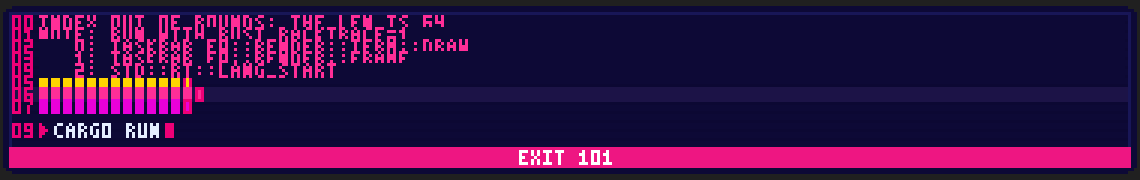
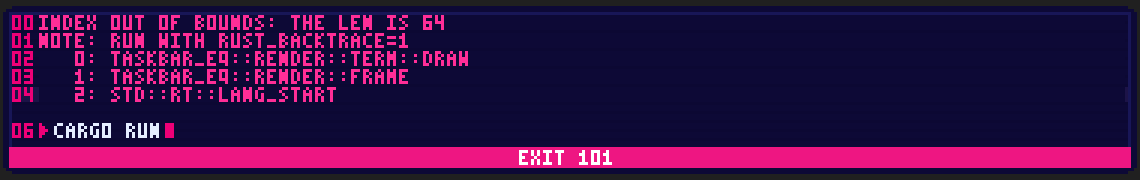
term: 6 px row pitch so text rows never overlap; matrix status bar; tilde glyph

Changed region(s): [[0.0, 0.1389, 0.4298, 0.6389], [0.0, 0.3333, 0.0307, 0.3889]]

diff --git a/docs/review/index.html b/docs/review/index.html
@@ -172,15 +172,15 @@ caption's source.</p>
 </section>
 <section>
   <h2><span class="n">20</span>Terminal: 2077</h2>
-  <p class="what">The user's own VSCode <b>"2077" theme</b> (endormi.2077-theme) rendered as a live shell whose output lines ARE the meter &mdash; it should sit on the taskbar like a second VSCode pane. Every colourway reads two ways at once: as a <b>terminal</b> (a prompt <code>&gt;</code>, a command that TYPES a character per onset, a block cursor that blinks at 1&nbsp;Hz, hot-pink line numbers down the left, a status bar with <code>~/music</code> / an rms <code>%</code> / <code>UTF-8&nbsp;&nbsp;LF</code>) and as a <b>meter</b> (each row is a band group, a bar of <code>▮</code> block glyphs growing with that band's level, bass at the BOTTOM next to the prompt like a log's newest line, a <code>▯</code> outline peak-hold marker at the tip; the loudest row gets a line-highlight, a clipping row the selection colour). When <code>L&nbsp;&ge;&nbsp;8</code> a <code># bpm ~ NNN</code> comment sits above the prompt, its tempo derived from the onset interval. The five colourways are five DIFFERENT sessions, each with its own command list: <b>2077</b> a mixed dev shell (the theme verbatim, seven-colour ANSI rows), <b>Cyan</b> network ops (monochrome cyan, pink only on the prompt), <b>Hot</b> git (pink/magenta lead), <b>Matrix</b> sysadmin (green on the editor navy, green prompt), <b>Editor</b> build &amp; test (the code-editor token palette). The flourish is a <code>panic!</code>: every meter row becomes a red Rust stack trace that scrolls up over ~700&nbsp;ms revealing the meter from the bottom, the cursor freezes solid and the status bar turns red with <code>EXIT 101</code>, then the prompt runs <code>clear</code>. No trademark marks &mdash; "2077" is only the colourway names. 0.035&nbsp;ms/frame steady, 0.037&nbsp;ms during the trace.</p>
-  <figure><img src="term-2077-loud.png" alt="Term 2077, loud"><figcaption>2077, loud &mdash; the theme verbatim: hot-pink line numbers 00&ndash;09, the seven-colour ANSI bars (magenta bass up through blue treble) with pink <code>▯</code> peak markers, a <code># bpm ~</code> comment, the prompt typing <code>cargo run</code> with a pink block cursor, and the <code>~/music &middot; ▮51% &middot; UTF-8 LF</code> status bar</figcaption></figure>
+  <p class="what">The user's own VSCode <b>"2077" theme</b> (endormi.2077-theme) rendered as a live shell whose output lines ARE the meter &mdash; it should sit on the taskbar like a second VSCode pane. Every colourway reads two ways at once: as a <b>terminal</b> (a prompt <code>&gt;</code>, a command that TYPES a character per onset, a block cursor that blinks at 1&nbsp;Hz, hot-pink line numbers down the left, a status bar with <code>~/music</code> / an rms <code>%</code> / <code>UTF-8&nbsp;&nbsp;LF</code>) and as a <b>meter</b> (each row is a band group, a bar of <code>▮</code> block glyphs growing with that band's level, bass at the BOTTOM next to the prompt like a log's newest line, a <code>▯</code> outline peak-hold marker at the tip; the loudest row gets a line-highlight, a clipping row the selection colour). The rows are at a 6&nbsp;px pitch (a 5&nbsp;px glyph plus a 1&nbsp;px gap, never overlapping); when there are at least six of them a <code># bpm ~ NNN</code> comment sits above the prompt, its tempo derived from the onset interval. The five colourways are five DIFFERENT sessions, each with its own command list: <b>2077</b> a mixed dev shell (the theme verbatim, seven-colour ANSI rows), <b>Cyan</b> network ops (monochrome cyan, pink only on the prompt), <b>Hot</b> git (pink/magenta lead), <b>Matrix</b> sysadmin (green on the editor navy, green prompt), <b>Editor</b> build &amp; test (the code-editor token palette). The flourish is a <code>panic!</code>: every meter row becomes a red Rust stack trace that scrolls up over ~700&nbsp;ms revealing the meter from the bottom, the cursor freezes solid and the status bar turns red with <code>EXIT 101</code>, then the prompt runs <code>clear</code>. No trademark marks &mdash; "2077" is only the colourway names. 0.027&nbsp;ms/frame steady, 0.028&nbsp;ms during the trace.</p>
+  <figure><img src="term-2077-loud.png" alt="Term 2077, loud"><figcaption>2077, loud &mdash; the theme verbatim: hot-pink line numbers down the left, the seven-colour ANSI bars (magenta bass up through blue treble) with pink <code>▯</code> peak markers, a <code># bpm ~</code> comment, the prompt typing <code>cargo run</code> with a pink block cursor, and the <code>~/music &middot; ▮51% &middot; UTF-8 LF</code> status bar</figcaption></figure>
   <figure><img src="term-2077-cyan-loud.png" alt="Term Cyan, loud"><figcaption>Cyan, loud &mdash; a network-ops session: monochrome cyan bars and cyan line numbers, pink reserved for the prompt chevron alone, typing <code>ssh fab-01</code></figcaption></figure>
   <figure><img src="term-2077-hot-loud.png" alt="Term Hot, loud"><figcaption>Hot, loud &mdash; a git session in pink/magenta, typing <code>git status</code>; the bar hues are rotated so the loud bass rows never coincide with the 2077 palette at the same height</figcaption></figure>
   <figure><img src="term-2077-matrix-calm.png" alt="Term Matrix, calm"><figcaption>Matrix, calm &mdash; a sysadmin session, green on the editor navy with a green prompt typing <code>htop</code>; the status bar background matches the panel (editor bg) by design, so only its text reads</figcaption></figure>
   <figure><img src="term-2077-editor-loud.png" alt="Term Editor, loud"><figcaption>Editor, loud &mdash; a build &amp; test session using the code-editor TOKEN palette (keyword magenta, string cyan, number yellow, function blue, constant violet) instead of the ANSI one, blue line numbers, typing <code>cargo test</code></figcaption></figure>
   <figure><img src="term-2077-panic-peak.png" alt="Term 2077, panic"><figcaption>flourish &mdash; a <code>panic!</code>: the meter rows overpainted by a red Rust stack trace (<code>index out of bounds: the len is 64</code>, <code>taskbar_eq::render::term::draw</code>, ...) scrolling up to reveal the meter from the bottom, the cursor frozen solid, and the status bar red with <code>EXIT 101</code>; then the prompt runs <code>clear</code></figcaption></figure>
   <figure><img src="term-2077-128x44.png" alt="Term 2077, 128x44"><figcaption>128&times;44 &mdash; below 48 rows the status bar is dropped and there is no room for the comment line; the line-number column still fits, the prompt still shows a cursor, and nothing paints outside the panel</figcaption></figure>
-  <p class="judge"><strong>What I want your eyes on:</strong> Does it read as YOUR terminal at a glance &mdash; prompt, typed command, block cursor, pink line numbers, status bar &mdash; AND as a meter, the bars clearly growing with the bass at the bottom with the peak marker visible? Are the five sessions telling five different stories (ssh / git / htop / cargo test / cargo run)? At the 4&nbsp;px row pitch the text rows sit tight (a dense log); is that the right density or too cramped, especially the panic trace? Is the <code>panic!</code> funny or annoying? And which of the five sessions are keepers?</p>
+  <p class="judge"><strong>What I want your eyes on:</strong> Does it read as YOUR terminal at a glance &mdash; prompt, typed command, block cursor, pink line numbers, status bar &mdash; AND as a meter, the bars clearly growing with the bass at the bottom with the peak marker visible? Are the five sessions telling five different stories (ssh / git / htop / cargo test / cargo run)? The rows are at a 6&nbsp;px pitch so the line numbers and the panic trace are all legible, none overlapping. Is the <code>panic!</code> funny or annoying? And which of the five sessions are keepers?</p>
 </section>
 <footer>
 Generated from the renderers themselves, not drawn by hand. Progress log: <code>TODO.md</code>.

diff --git a/src/render/term.rs b/src/render/term.rs
@@ -15,8 +15,9 @@
 //!
 //! # What the meter is
 //!
-//! The interior above the status bar is divided into `L = min(12, (interior_h - 5) / 4)` rows of 4 px
-//! pitch. The bottom-most row is the PROMPT; the row above it (when `L >= 8`) is a `# bpm ~ NNN`
+//! The interior above the status bar is divided into rows of 6 px pitch (a 5 px `font3x5` glyph plus a
+//! 1 px gap, so text rows never overlap). The bottom-most row is the PROMPT; the row above it (when
+//! there are `>= 6` rows) is a `# bpm ~ NNN`
 //! comment; the rest are METER rows. Each meter row shows a two-digit line number in `t.hot`, then a
 //! bar of `▮` in the row's colour whose length is that band group's level, capped by a `▯` peak
 //! marker in `t.hot`. Row `i` (0 = top) folds the band group `m-1-i` so the bass sits at the bottom.
@@ -53,11 +54,11 @@ use crate::render::font3x5;
 use crate::render::{Family, FrameData};
 use crate::themes::Theme;
 
-/// Vertical pitch of a row, px (a 3 px glyph body plus a 1 px gap; the `font3x5` cell is 5 px tall so
-/// rows sit close, a dense log).
-const ROW_PITCH: i32 = 4;
-/// The smoothing arrays are sized to the most rows any panel can show.
-const MAX_ROWS: usize = 12;
+/// Vertical pitch of a row, px: a 5 px `font3x5` glyph body plus a 1 px gap, so text rows never
+/// overlap (the spec's "3 px glyph" was the glyph WIDTH; the cell is 5 px tall).
+const ROW_PITCH: i32 = 6;
+/// The smoothing arrays are sized to the most rows any panel can show at 6 px pitch.
+const MAX_ROWS: usize = 8;
 /// Status bar height in px, and the minimum panel height at or above which it is drawn.
 const STATUS_H: i32 = 7;
 const STATUS_MIN_H: i32 = 48;
@@ -405,12 +406,12 @@ impl Family for Term {
         // ---- layout: rows, status bar, roles ----
         let status = h >= STATUS_MIN_H;
         let bottom = if status { iy1 - STATUS_H } else { iy1 };
-        let n = ((bottom - iy0 - 5) / ROW_PITCH).clamp(0, MAX_ROWS as i32) as usize;
+        let n = ((bottom - iy0 - 1) / ROW_PITCH).clamp(0, MAX_ROWS as i32) as usize;
         if n < 2 {
             c.clip_to_rounded_rect(1, 2, w - 2, h - 4, 3);
             return; // no room for even a prompt + one meter row
         }
-        let comment = n >= 8;
+        let comment = n >= 6;
         let m = n - 1 - if comment { 1 } else { 0 }; // meter rows
         let prompt_r = n - 1;
         let comment_r = if comment { n - 2 } else { usize::MAX };
@@ -426,8 +427,10 @@ impl Family for Term {
         }
         self.layout = layout;
 
-        // ---- subtle CRT scanlines: a DARKENING of the panel every 3rd row (a subtractive gap, so it
-        // never reads as a lit bar in an empty meter row) ----
+        // ---- subtle CRT scanlines: a DARKENING of the panel every 3rd row. Subtractive (a CRT gap)
+        // rather than a lit line ON PURPOSE: a lit scanline at `ghost` alpha over the near-black panel
+        // reads as painted, which would make an EMPTY meter row fail the "top row is quiet" test - a
+        // dark gap never does, and it is the more authentic look anyway. ----
         let scan = Rgba::lerp_linear(panel, Rgba::new(0, 0, 0, 255), t.ghost.clamp(0.0, 1.0));
         let mut y = iy0 + 1;
         while y < bottom {
@@ -631,7 +634,10 @@ impl Family for Term {
 
         // ---- status bar ----
         if status {
-            let bg = if tracing { Rgba::from_hex(PANIC_STATUS_BG, 1.0) } else { Rgba::from_hex(STATUS_BG, 1.0) };
+            // On matrix the editor-background status bar equals the panel, so it would vanish; give it
+            // the theme's panel.background (`#0e0952`) there so the bar reads on every colourway.
+            let normal_bg = if t.id == "term-2077-matrix" { "#0e0952" } else { STATUS_BG };
+            let bg = if tracing { Rgba::from_hex(PANIC_STATUS_BG, 1.0) } else { Rgba::from_hex(normal_bg, 1.0) };
             c.fill_rect(ix0, bottom, iw, STATUS_H, bg);
             let sy = bottom + 1;
             let third = iw / 3;

diff --git a/src/render/font3x5.rs b/src/render/font3x5.rs
@@ -86,7 +86,7 @@ pub fn glyph(ch: char) -> Option<[u8; 5]> {
         '▯' => [0b111, 0b101, 0b101, 0b101, 0b111],
         '\'' => [0b010, 0b010, 0b000, 0b000, 0b000],
         '_' => [0b000, 0b000, 0b000, 0b000, 0b111],
-        '~' => [0b000, 0b011, 0b110, 0b000, 0b000],
+        '~' => [0b000, 0b110, 0b011, 0b000, 0b000],
         '#' => [0b101, 0b111, 0b101, 0b111, 0b101],
         '%' => [0b101, 0b001, 0b010, 0b100, 0b101],
         '=' => [0b000, 0b111, 0b000, 0b111, 0b000],
